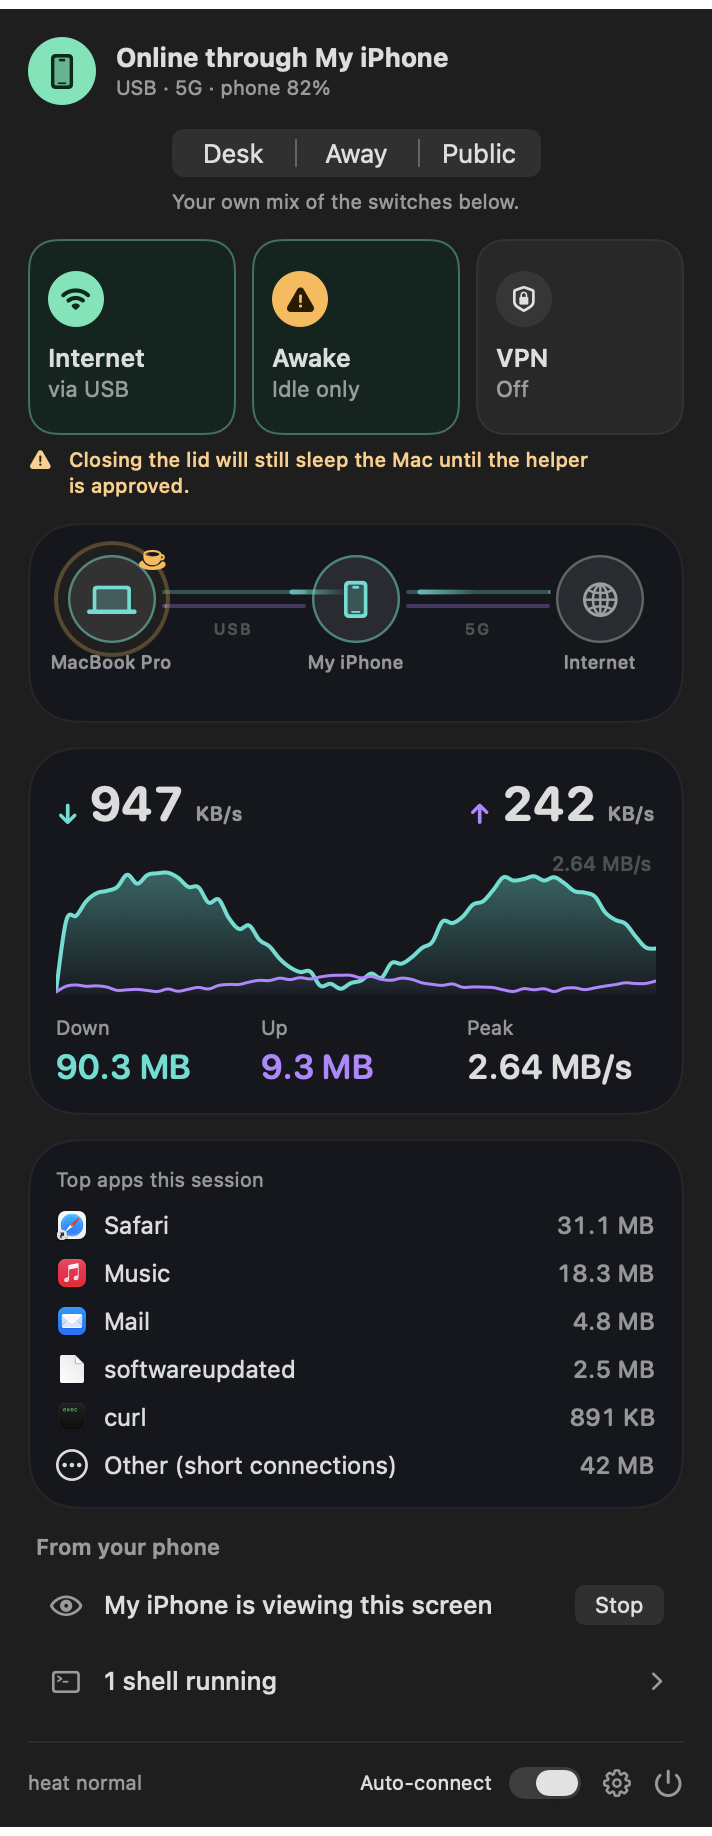
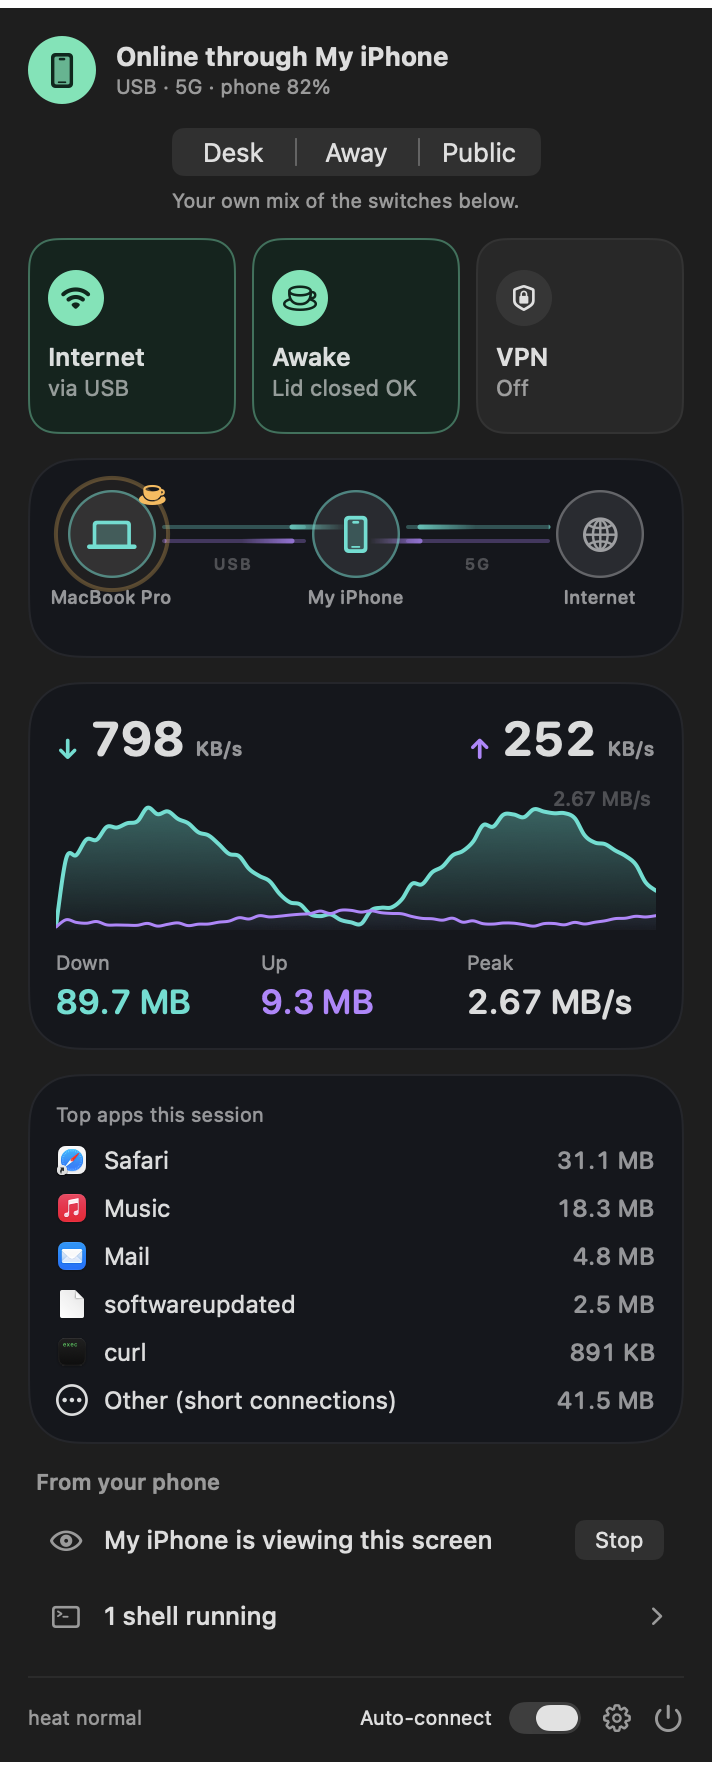
README: a clean Awake tile in the Mac panel shots
Snapshot runs start no helper, so Keep awake showed "Idle only" and the
lid-close warning. They now draw it as it looks once the helper holds
lid-close sleep (KeepAwakeController.showAsHeldForSnapshot, a no-op outside
snapshot runs).

diff --git a/macOS/App/Views/PanelSnapshots.swift b/macOS/App/Views/PanelSnapshots.swift
@@ -24,6 +24,7 @@ enum PanelSnapshots {
         for (name, configure) in states {
             let session = SessionCoordinator()
             configure(session)
+            session.keepAwake.showAsHeldForSnapshot()
             for scheme in [ColorScheme.dark, .light] {
                 let view = MenuPanelView().environmentObject(session).environmentObject(session.vpnLayer).environmentObject(session.keepAwake).environmentObject(session.shell)
                     .background(Color(nsColor: .windowBackgroundColor))

diff --git a/macOS/App/Power/KeepAwake.swift b/macOS/App/Power/KeepAwake.swift
@@ -51,6 +51,12 @@ final class KeepAwakeController: ObservableObject {
         }
     }
 
+    /// Snapshot runs start no helper: draw Keep awake as it looks once the helper holds lid-close sleep.
+    func showAsHeldForSnapshot() {
+        guard SessionCoordinator.isSnapshotRun else { return }
+        lidCloseHeld = isOn
+    }
+
     /// Re-asserts lid-close sleep once the helper is known to be current.
     func resume() { applyLidClose(isOn) }
 
